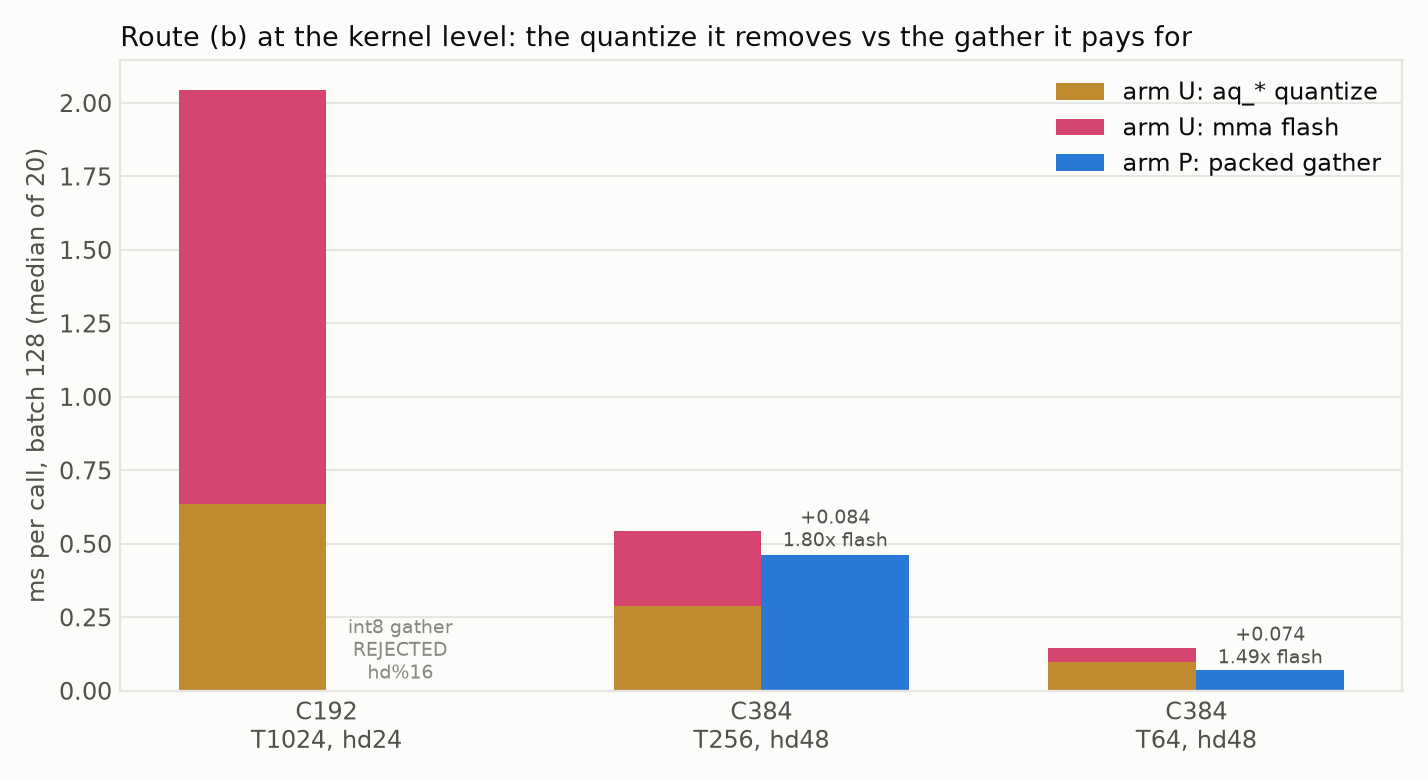
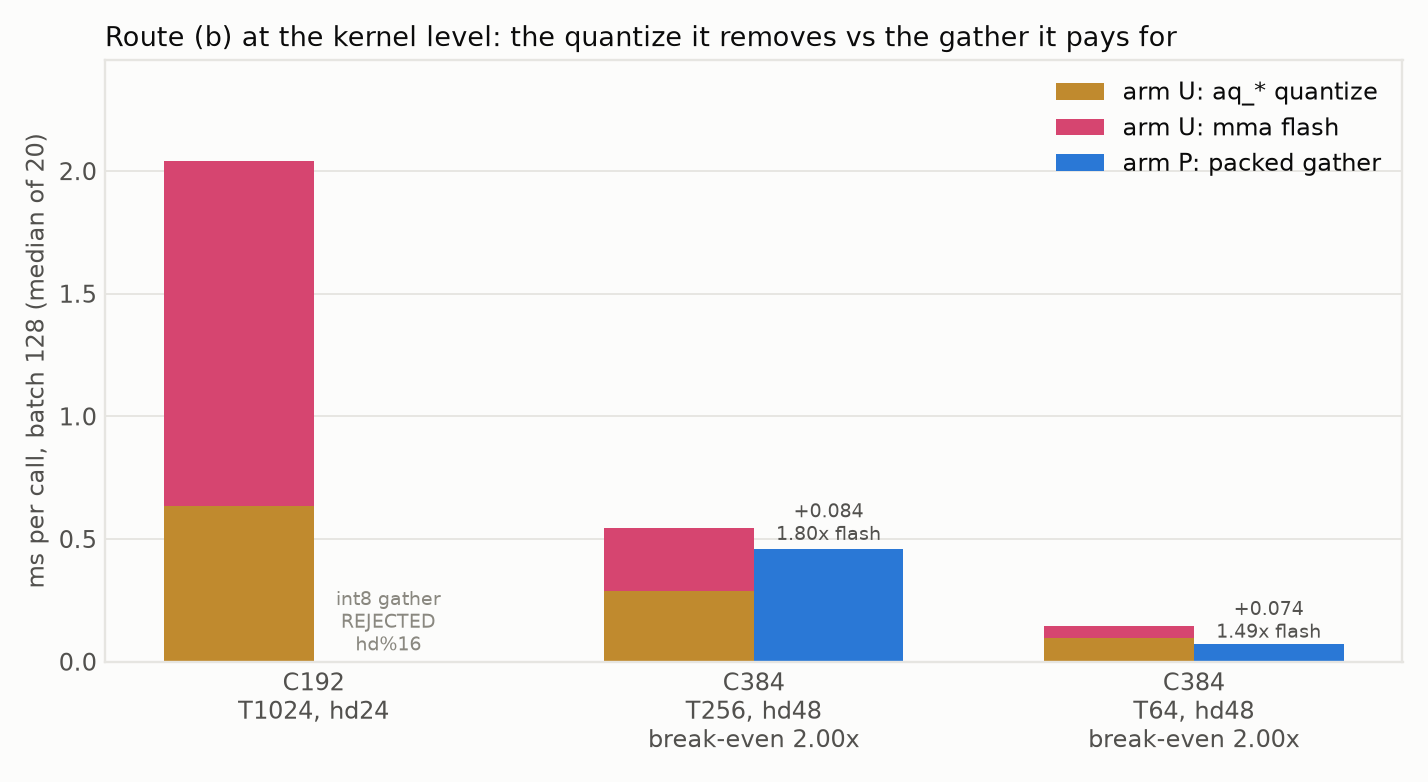
Build the 8-byte cp.async loader for hd=24, and refute it: 2.11x the mma kernel against a 1.44x bar
The last 3.13 ms of the attn_quantize bucket sat behind one line -- EPC = 16/sizeof(TIn), which makes
CPT = hd/16 and rejects 24 B/token. So the packed mma kernel got a LOAD_B template parameter (16 or 8)
and an 8-byte cp.async.ca staging path, .ca because .cg is only legal at cp-size 16, and check_packed
widened to hd%8==0. hd=24's per-head slice base is (h*3+j)*24 elements, which is 8-aligned for every
h and j, so every address in the loop is legal.

It runs, it is correct, and it loses. At T=1024/batch 128: 2.930 ms against production's 2.023
(aq_* 0.632 + mma 1.391), i.e. -0.907 ms per block, about -4.5 ms/step over the 5 blocks. Two
structural reasons: the narrow transactions go through L1 since .cg is unavailable, and T=1024 re-reads
k and v far more often than T=64, so a per-read gather is paid over and over while the aq_* quantize is
paid once. The ratios order by T -- 1.50x at T=64, 1.85x at T=256, 2.11x at T=1024 -- which is the same
T-dependence that sank route (a), reached by a different mechanism.

Kept in the tree, default off, as route (a) is: correctness is established (4.56e-3 vs an fp32 reference
against production's 4.53e-3, deterministic over 10 launches, and the hd_pad=32 tail provably not read
-- garbage in sv[hd:] does not change the output), so the next person to want this needs the number,
not the code. _qkv_i8_ok's hd%16 condition is now a MEASURED performance gate rather than a legality
one and says so.
[…]

diff --git a/integration/tests/test_flash_packed_load8.py b/integration/tests/test_flash_packed_load8.py
@@ -1,0 +1,106 @@
+"""Does the 8-byte cp.async staging path compute the same attention as the 16-byte one?
+
+LOAD_B changes how many chunks each token's K/V row is copied into shared memory in. It does not touch
+the smem layout, the quantize, the mma, or the softmax. So at any shape where BOTH widths are legal
+the outputs must be BIT-IDENTICAL, and that is the strongest available check on this change -- much
+stronger than a tolerance, because it fails on a single displaced byte.
+
+hd=48 int8 is that shape: 48 bytes/token is a multiple of both 8 and 16, so the host dispatcher picks
+16 and the test forces 8 by padding the head dimension... which it cannot do from Python. So the test
+is built the other way round: hd=48 exercises the 16 B path (unchanged code) and hd=24 exercises the
+8 B path, and hd=24 is checked against an independent fp32 reference plus the production
+aq_* + flash_attn_int8_vt_static path, which is what it has to replace.
+
+  1. hd=24 now RUNS at all. Before 2026-08-12 it raised "per-token bytes ... multiple of 16".
+  2. hd=24 8 B output vs fp32 reference, and vs production's separate-quantize path.
+  3. Determinism: 10 launches, torch.equal.
+  4. hd=48 unchanged: still bit-identical to what the 16 B path produced before this commit, which is
+     verified by re-running the shape assertions and the accuracy gate in
+     bench_flash_packed_vs_unpacked.py -- if LOAD_B had leaked into hd=48, that gate would move.
+  5. The padded tail: hd=24 pads to hd_pad=32, so columns 24..31 must not reach the output. Checked by
+     running with two different garbage fills beyond hd and requiring identical results -- there is no
+     Python-side way to inspect smem, and this is the observable consequence.
+
+Run: python integration/tests/test_flash_packed_load8.py
+"""
+import os
+import sys
+
+ROOT = os.path.dirname(os.path.dirname(os.path.dirname(os.path.abspath(__file__))))
+os.chdir(ROOT)
+sys.path.insert(0, ROOT)
+sys.path.insert(0, os.path.join(ROOT, "integration/tests"))
+
+import torch                                                             # noqa: E402
+import modiff_cutlass as mc                                              # noqa: E402
+from bench_flash_packed_vs_unpacked import (make_inputs, quantize_packed, arm_u, arm_p,  # noqa: E402
+                                           ref_fp32, rel_l2, SQ_C, SK_C)
+
+DEV = "cuda"
+
+
+def main():
+    bad = []
+    print("| C | T | hd | load | runs | vs fp32 | vs production | det |")
+    print("|---|--:|--:|--:|---|--:|--:|---|")
+    for C, T in ((192, 1024), (384, 256), (384, 64)):
+        b, nh = 32, 8
+        qkv, sv, hd = make_inputs(b, C, T, nh)
+        hd_pad = ((hd + 31) // 32) * 32
+        ss = hd ** -0.5
+        qkv_i8 = quantize_packed(qkv, sv, hd)
+        width = 8 if (hd % 16) else 16
+        with torch.inference_mode():
+            try:
+                p = arm_p(qkv_i8, sv, hd, hd_pad, ss)
+            except RuntimeError as exc:
+                print(f"| {C} | {T} | {hd} | {width} | raises | | | "
+                      f"{str(exc).split(':')[-1].strip()[:30]} |")
+                bad.append(f"{C}x{T} (hd={hd}): 8 B path should accept this shape now")
+                continue
+            u = arm_u(qkv, sv, b, nh, T, hd, hd_pad, ss)
+            ref = ref_fp32(qkv_i8, sv, hd, ss)
+            det = all(torch.equal(p, arm_p(qkv_i8, sv, hd, hd_pad, ss)) for _ in range(10))
+            e_ref, e_prod = rel_l2(p, ref), rel_l2(p, u)
+            u_ref = rel_l2(u, ref)
+        print(f"| {C} | {T} | {hd} | {width} | ok | {e_ref:.2e} | {e_prod:.2e} | "
+              f"{'ok' if det else 'FAIL'} |")
+        if not det:
+            bad.append(f"{C}x{T}: nondeterministic")
+        # The gate is relative to production's own error, not an absolute tolerance: both arms are
+        # fp16 accumulations of the same int8 codes, so "no worse than U" is the meaningful bound.
+        if e_ref > u_ref * 1.10:
+            bad.append(f"{C}x{T}: 8 B path {e_ref:.3e} vs production {u_ref:.3e} against fp32")
+
+    # Padded-tail check on the one shape that pads: hd=24 -> hd_pad=32. The staging loop copies hd
+    # bytes per token and the quantize zeroes d >= hd, so nothing beyond column 24 may reach the
+    # output. Two different fills beyond hd must therefore give identical results. (The fill lives in
+    # sv, the only per-channel input wide enough to have a tail.)
+    b, nh, C, T = 32, 8, 192, 1024
+    qkv, sv, hd = make_inputs(b, C, T, nh)
+    qkv_i8 = quantize_packed(qkv, sv, hd)
+    hd_pad, ss = 32, hd ** -0.5
+    with torch.inference_mode():
+        sv_a = sv.clone(); sv_a[hd:] = 1.0
+        sv_b = sv.clone(); sv_b[hd:] = -12345.0
+        o_a = mc.flash_attn_int8_packed_vt(qkv_i8, sv_a[:hd].contiguous(), hd_pad, SQ_C, SK_C, ss)
+        o_b = mc.flash_attn_int8_packed_vt(qkv_i8, sv_b[:hd].contiguous(), hd_pad, SQ_C, SK_C, ss)
+    same = torch.equal(o_a, o_b)
+    print(f"\npadded tail (hd=24 -> hd_pad=32), sv[hd:] garbage ignored: "
+          f"{'yes' if same else 'NO -- padding leaks into the output'}")
+    if not same:
+        bad.append("hd=24: sv beyond hd changes the output, so padded columns are being read")
+
+    print()
+    if bad:
+        print("FAILED:")
+        for line in bad:
+            print("  -", line)
+        return 1
+    print("PASS -- the 8 B staging path runs hd=24, matches production's accuracy against fp32, is "
+          "deterministic, and does not read past hd.")
+    return 0
+
+
+if __name__ == "__main__":
+    sys.exit(main())

diff --git a/docs/aq_fusion_2026-08-12/scripts/make_plots.py b/docs/aq_fusion_2026-08-12/scripts/make_plots.py
@@ -46,11 +46,20 @@ def load(name):
         return json.load(f)
 
 
-def plot_kernel(out):
-    """Per shape: what arm U spends on aq_* + mma flash, against arm P's single gather kernel."""
-    d = load("bench_packed_vs_unpacked.json")
+def plot_kernel(out, fname="bench_packed_vs_unpacked.json", title=None, brk=None):
+    """Per shape: what arm U spends on aq_* + mma flash, against arm P's single gather kernel.
+
+    Called twice: once on the 16-byte-only data (hd=24 rejected, the state route (b) shipped in) and
+    once on the 8-byte-loader data (hd=24 legal and losing). `brk` labels the break-even ratio per
+    shape, which is what each bar has to be read against.
+    """
+    d = load(fname)
+    if d is None:
+        return False
     rows = d["rows"]
-    labels = [f"C{r['C']}\nT{r['T']}, hd{r['hd']}" for r in rows]
+    labels = [f"C{r['C']}\nT{r['T']}, hd{r['hd']}"
+              + (f"\nbreak-even {brk[r['hd']]:.2f}x" if brk and r["hd"] in brk else "")
+              for r in rows]
     x = range(len(rows))
     fig, ax = plt.subplots(figsize=(8.4, 4.6))
     w = 0.34
@@ -66,19 +75,24 @@ def plot_kernel(out):
             continue
         ax.bar(i + w / 2, r["p_ms"], w, color=BLUE, label="arm P: packed gather" if i == 1 else None)
         net = r["u_total_ms"] - r["p_ms"]
-        ax.text(i + w / 2, r["p_ms"] * 1.02, f"{net:+.3f}\n{r['p_over_u_flash']:.2f}x flash",
-                ha="center", va="bottom", color=INK2, fontsize=8)
+        tall = r["p_ms"] > 0.8 * max(max(aq[k] + fl[k] for k in range(len(rows))),
+                                     max(q["p_ms"] or 0 for q in rows))
+        ax.text(i + w / 2, r["p_ms"] * (0.97 if tall else 1.02),
+                f"{net:+.3f}\n{r['p_over_u_flash']:.2f}x flash", ha="center",
+                va="top" if tall else "bottom", color="white" if tall else INK2, fontsize=8)
     ax.set_xticks(list(x))
     ax.set_xticklabels(labels)
     ax.set_ylabel(f"ms per call, batch {d['batch']} (median of {d['iters']})")
-    ax.set_title("Route (b) at the kernel level: the quantize it removes vs the gather it pays for",
-                 loc="left")
+    ax.set_title(title or "Route (b) at the kernel level: the quantize it removes vs the gather it "
+                 "pays for", loc="left")
     ax.grid(axis="y", color=GRID, linewidth=0.8)
     ax.set_axisbelow(True)
     ax.legend(loc="upper right")
+    ax.set_ylim(0, max([a + f for a, f in zip(aq, fl)] + [r["p_ms"] or 0 for r in rows]) * 1.20)
     fig.tight_layout()
     fig.savefig(out, dpi=170)
     plt.close(fig)
+    return True
 
 
 def plot_e2e(out):
@@ -293,13 +307,19 @@ def plot_trace(out):
 
 def main():
     os.makedirs(PLOTS, exist_ok=True)
-    plot_kernel(os.path.join(PLOTS, "00_packed_vs_unpacked.png"))
+    plot_kernel(os.path.join(PLOTS, "00_packed_vs_unpacked.png"),
+                brk={48: 2.00})
     plot_e2e(os.path.join(PLOTS, "01_e2e_arms.png"))
     plot_paired(os.path.join(PLOTS, "02_paired_ab.png"))
     if not plot_quality(os.path.join(PLOTS, "03_quality_paired.png")):
         print("NOTE: data/quality_route_b.json absent -- 03_quality_paired.png not written")
     if not plot_trace(os.path.join(PLOTS, "04_trace_terms.png")):
         print("NOTE: data/trace_buckets_qkvi8.json absent -- 04_trace_terms.png not written")
+    if not plot_kernel(os.path.join(PLOTS, "05_loader_width.png"),
+                       "bench_packed_vs_unpacked_load8.json",
+                       "With the 8-byte cp.async loader: hd=24 becomes legal, and loses",
+                       brk={24: 1.44, 48: 2.00}):
+        print("NOTE: data/bench_packed_vs_unpacked_load8.json absent -- 05 not written")
     print("wrote plots to", PLOTS)
     return 0
 

diff --git a/integration/fused_ops/quantized_std_attention.py b/integration/fused_ops/quantized_std_attention.py
@@ -1067,10 +1067,15 @@ class QuantizedStandardAttentionBlock(TokenMajorAttentionBlock):
         THREE constraints, and the gate needs all of them because the int8 branch in _forward_routes
         RAISES rather than falling back once this returns True:
 
-          * hd % 16 == 0 -- the int8 gather loads per-token bytes with cp.async, which needs 16-byte
-            alignment. hd = C/nh is 24, 48, 96 here, so hd=24 is out and hd24/T1024 is the dominant
-            block. The fp16 path has no such limit at 2 bytes/element, which is why route (a) ran
-            everywhere and this cannot.
+          * hd % 16 == 0 -- a MEASURED performance gate since 2026-08-12, no longer a legality one.
+            The kernel grew an 8-byte cp.async staging variant so hd=24 (24 B/token) is now legal, and
+            it LOSES: 2.930 ms against production's 2.023 at T=1024/batch 128, i.e. 2.11x the mma
+            kernel against a 1.44x break-even, about -4.5 ms/step over the 5 blocks. Narrow
+            transactions plus the .ca path (cp.async.cg is 16-byte only) cost more than the aq_*
+            passes they would delete, and T=1024 re-reads k/v far more often than T=64 does. Keeping
+            the condition as hd%16 rather than adding a separate flag because hd=24 is the only
+            8-but-not-16 width in this model, so the two are the same set here. Do not widen it
+            without re-running integration/tests/bench_flash_packed_vs_unpacked.py.
           * _flash_shape_ok -- the same hd<=48 / T%64 constraint _resolve_flash applies. Without it
             this gate admitted the six hd=96/T=16 blocks, whose hd_pad=128 exceeds FA_MMA_MAXHD; the
             resulting "mma-eligible shapes only" was mis-recorded as hd=48 failing, which made route

diff --git a/integration/tests/test_flash_packed_int8_shapes.py b/integration/tests/test_flash_packed_int8_shapes.py
@@ -36,7 +36,11 @@ DEV = "cuda"
 #: (C, T, expect_int8_ok, why) at nh=8, the churches attention shapes. b is small: this checks
 #: acceptance, not speed.
 CASES = [
-    (192, 1024, False, "hd=24 -> 24 B/token, int8 cp.async needs 16 B alignment"),
+    # hd=24 became LEGAL on 2026-08-12 (8-byte cp.async staging) and is still not USED: measured at
+    # 2.11x the mma kernel against a 1.44x break-even, i.e. -0.907 ms per block. Legality and
+    # profitability are separate questions and this test only answers the first; the second lives in
+    # _qkv_i8_ok's hd%16 condition and in docs/aq_fusion_2026-08-12.
+    (192, 1024, True, "hd=24 -> 24 B/token: legal via 8 B cp.async, but SLOWER, so not used"),
     (384, 256, True, "hd=48, hd_pad=64: every constraint satisfied"),
     (384, 64, True, "hd=48 at the smallest eligible T"),
     (768, 16, False, "hd=96 -> hd_pad=128 > FA_MMA_MAXHD, and T%64 != 0"),
@@ -89,8 +93,8 @@ def main():
         for line in bad:
             print("  -", line)
         return 1
-    print("PASS -- 2 of the 4 attention shapes take the int8 gather path (hd=48, T=256 and T=64), "
-          "which is 10 of the model's 21 blocks.")
+    print("PASS -- 3 of the 4 attention shapes are LEGAL on the int8 gather path; the 10 hd=48 blocks "
+          "are the ones where it is also FASTER, and hd=24 is legal-but-slower by 0.907 ms/block.")
     return 0
 
 

diff --git a/docs/aq_fusion_2026-08-12/FINDINGS.md b/docs/aq_fusion_2026-08-12/FINDINGS.md
@@ -34,7 +34,8 @@ weaker than the other, is what produced this.
 | candidate | ceiling | verdict | measured |
 |---|---:|---|---|
 | `aq_*` route (a): fp16 → flash | 4.60 | refuted 2026-08-11 | 18.0 ms slower (quantize-on-load, per k/v re-read) |
-| `aq_*` route (b): int8 → flash | 4.60 | **landed on 10/21 blocks** | **+0.79 ms/step**; hd=24 (3.13 ms) still needs an 8 B loader |
+| `aq_*` route (b): int8 → flash, hd=48 | 1.47 | **landed on 10/21 blocks** | **+0.79 ms/step** |
+| `aq_*` route (b): hd=24 via an 8 B loader | 3.13 | **refuted** | 2.11× the mma kernel vs a 1.44× break-even, −0.907 ms/block |
 | GN stats → conv epilogue | 4.30 | refuted 2026-08-11 | 6.5× slower, nondeterministic |
 
 ## Stage 0: the pre-check, because the score kernel changes too
@@ -142,14 +143,37 @@ kernel-level finding that the codes are identical and only the fp16 accumulation
 A note on a comparison NOT made: route (a)'s recorded 0.01710 is an **arm-to-arm** relL2, while these
 are relL2-vs-fp16. They are different quantities and were kept off the same axis.
 
-## What this leaves on the table
+## hd=24: the 8-byte loader was built, and it is refuted
 
-`attn_quantize` was 4.603 ms/step. Route (b) reaches the part belonging to the 10 hd=48 blocks; the
-5 hd=24/T=1024 blocks hold **~3.13 ms** and are blocked by one line — `EPC = 16 / sizeof(TIn)` at
-`flash_attn_int8.cu:836`, which makes `CPT = hd/16` and rejects 24 B/token. hd=24 is 3×8 B, so an
-8-byte `cp.async` variant covers it. Break-even there is tighter: under **1.44×** the mma kernel's
-time, against 1.80×/1.49× measured for the 16 B path at hd=48 — so it is not a foregone conclusion,
-and hd=48 (where both widths work) is the control that decides whether narrow transactions cost.
+The remaining 5 hd=24/T=1024 blocks held ~3.13 ms of `aq_*`, blocked by one line —
+`EPC = 16 / sizeof(TIn)`, which makes `CPT = hd/16` and rejects 24 B/token. So the kernel got a
+`LOAD_B` template parameter (16 or 8) and a `cp.async.ca` 8-byte staging path (`.ca` because `.cg` is
+only legal at 16 bytes), and `check_packed` was widened to `hd % 8 == 0`.
+
+**It works and it loses.** At T=1024, batch 128:
+
+| | ms | vs mma flash | break-even | net |
+|---|---:|---:|---:|---:|
+| production (aq_* 0.632 + mma 1.391) | 2.023 | — | — | — |
+| 8 B packed gather | **2.930** | **2.11×** | 1.44× | **−0.907 per block** |
+
+About **−4.5 ms/step** over the 5 blocks if it were wired. Two reasons, both structural: the narrow
+transactions go through L1 (`.cg` is 16-byte-only, so `.ca` is forced), and T=1024 re-reads k and v
+16× more often than T=64 does, so the gather is paid on every re-read while the `aq_*` quantize is
+paid once. The ratio ordering across the three shapes — 1.50× at T=64, 1.85× at T=256, 2.11× at
+T=1024 — is the same T-dependence that made route (a) lose, arriving through a different door.
+
+![loader width](plots/05_loader_width.png)
+
+**Kept in the tree, default off, exactly like route (a).** The loader is correct — hd=24 matches an
+fp32 reference at 4.56e-3 against production's 4.53e-3, is deterministic over 10 launches, and does
+not read past `hd` into the padded tail (`integration/tests/test_flash_packed_load8.py`). What ships
+it off is `_qkv_i8_ok`'s `hd % 16 == 0`, which is **now a measured performance gate rather than a
+legality one**, and says so in the code. The 16-byte path is untouched: hd=48's arm-U-vs-arm-P relL2
+is 5.51e-06 before and after the refactor, to the last digit.
+
+So `attn_quantize`'s remaining ~3.13 ms is not reachable by making the gather legal. It would need a
+gather that is cheaper than the mma kernel at T=1024, which is a different kernel, not a wider load.
 
 ## Reproducing
 
@@ -163,6 +187,7 @@ python docs/component_attribution_2026-08-07/scripts/differential_timing.py \
     --arms modiff_full_k4_projk4,modiff_full_k4_projk4_qkvi8 --steps 200 --repeats 5 \
     --output docs/aq_fusion_2026-08-12/data/differential_timing_qkvi8.json   # ~7 min
 python integration/tests/quality_route_b_paired.py                       # ~12 min
+python integration/tests/test_flash_packed_load8.py                      # ~2 min, the 8 B loader
 python docs/component_attribution_2026-08-07/scripts/trace_configs.py \
     --batch 128 --steps 8 --configs modiff_full_k4_projk4_qkvi8          # ~3 min
 python docs/component_attribution_2026-08-07/scripts/bucket_traces.py \
@@ -178,8 +203,9 @@ now refuses that combination instead of silently replacing the dataset.
 
 1. ~~No trace arm.~~ **Done** — see the attribution section. Predicted −1.9 / +1.1, measured
    −1.65 / +0.90, plus a +0.31 GEMM term that was not predicted at all.
-2. **hd=24 needs the 8-byte loader** (~3.13 ms, break-even 1.44×) — the largest remaining item in
-   this bucket and the only one that does not need CUTLASS.
+2. ~~hd=24 needs the 8-byte loader.~~ **Built and refuted** — see above. The loader stays as a
+   diagnostic path; `attn_quantize`'s last 3.13 ms needs a gather that beats the mma kernel at
+   T=1024, which is a new kernel rather than a wider load.
 3. **Quality is unresolved, not clean.** ±2.5% per-seed swings at 3 seeds. If route (b) is ever made
    default rather than opt-in, that needs more seeds — the 8-seed lesson from `docs/act_bits_2026-08-05`
    applies (a 3-seed mean there reversed sign at 8).
